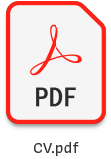
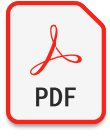
added works

Changed region(s): [[0.0545, 0.0294, 0.9818, 1.0], [0.0545, 0.0, 0.7636, 0.0882]]

diff --git a/index.html b/index.html
@@ -25,13 +25,53 @@
             <p>A Melbourne-based Graphic Designer</p>
         </div>
 
-        <div id="CV-icon">
-            <img src="assets/img/LBD-CV-Icon-Small.png" alt="CV PDF Icon" width="75px">
+        <div id="scroll">
+            <p>Scroll...</p>
         </div>
 
-        <container>
+        <div id="CV-icon">
+            <img src="assets/img/LBD-CV-Icon-Small.png" alt="CV PDF Icon" width="75px">
+            <p id="cv-label">cv.pdf</p>
+        </div>
 
-        </container>
+        <section id="grid-container">
+            <div class="item item-1">
+                <img id="absent" src="assets/img/work/LBD-Absented-Minded.jpg" alt="Absent Minded Graphic"
+                    width="400px">
+            </div>
+            <div class="item item-2">
+                <img src="assets/img/work/LBD-hyphen-press-01.png" alt="Hyphen Press Catalogue" width="300px">
+            </div>
+            <div class="item item-3">
+                <img src="assets/img/work/LBD-GFGF-01.png" alt="GFGF Graphic" width="300px">
+            </div>
+            <div class="item item-4">
+                <img src="assets/img/work/LBD-2022-04.jpg" alt="2022 Graphic" width="300px">
+            </div>
+            <div class="item item-5">
+                <div id="glitch">
+                    <p id="FML">"FML" <br> &nbsp;&nbsp;&nbsp; &#8212; a series</p>
+                    <img src="assets/img/work/LBD-glitch-01.jpg" alt="Glitch" width="200px">
+                    <img src="assets/img/work/LBD-glitch-02.jpg" alt="Glitch" width="200px">
+                    <img src="assets/img/work/LBD-glitch-03.jpg" alt="Glitch" width="200px">
+                    <img src="assets/img/work/LBD-glitch-04.jpg" alt="Glitch" width="200px">
+                    <img src="assets/img/work/LBD-glitch-05.jpg" alt="Glitch" width="200px">
+                </div>
+            </div>
+            <div class="item item-6">
+                <img src="assets/img/work/LBD-lampedusa-01.png" alt="Lampedusa Turtle Icon" width="150px">
+            </div>
+            <div class="item item-7">
+
+            </div>
+            <div class="item item-8">
+
+            </div>
+            <div class="item item-9">
+
+            </div>
+
+        </section>
     </main>
 </body>
 

diff --git a/assets/css/style.css b/assets/css/style.css
@@ -32,7 +32,7 @@ p{
     position: fixed;
     top: 70%;
     width: 100%;
-    z-index: -2;
+    z-index: 99;
     /* Starting position */  
     -moz-transform:translateX(50%);
     -webkit-transform:translateX(50%);    
@@ -73,4 +73,76 @@ p{
     position:fixed;
     left:40px;
     bottom: 40px;
+    text-align: center;
+    cursor: pointer;
+}
+#cv-label{
+    font-size: small;
+    color:rgb(70, 70, 70);
+    text-decoration: none;
+}
+
+#cv-label:hover{
+    text-decoration: underline;
+}
+
+#scroll{
+    width: 10%;
+    display: flex;
+    align-content: center;
+    justify-content: center;
+    height: 300px;
+    width: 100vw;
+
+}
+
+#scroll p{
+   align-self: center;
+   justify-self: center;
+}
+
+#grid-container{
+    margin: 5%;
+    display: grid;
+    grid-template-columns: 1fr 1fr 1fr 1fr 1fr;
+    grid-template-rows: auto;
+    row-gap: 30px;
+}
+
+.item-1{
+    grid-column-start: 4;
+    grid-column-end: span 2;
+    z-index: -99;
+}
+.item-2{
+    grid-column-start: 2;
+    grid-column-end: span 3;
+}
+.item-3{
+    grid-column-start:  4;
+    grid-column-end: span 2;
+}
+.item-4{
+    grid-column-start:  1;
+    margin-left: 200px;
+}
+.item-5{
+    grid-column-start:  1;
+    grid-column-end: span 5;
+    display: flex;
+    margin: 100px 0px;
+}
+#glitch{
+    display: flex;
+    align-items: center;
+    height: 100%;
+    width: 100%;
+    justify-content: space-around;
+
+}
+.item-6{
+    grid-column-start:  5;
+    place-self: end;
+    margin-top: 100px;
+    margin-right: -75px;
 }
